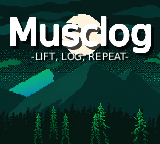
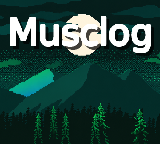
remove "lift log repeat" from the image

Changed region(s): [[0.1875, 0.3611, 0.8125, 0.4444]]

diff --git a/gameboy/src/start_screen.c b/gameboy/src/start_screen.c
@@ -46,6 +46,8 @@
 #define OPT_TEXT_X   7u
 #define OPT_VALUE_X  14u   /* ON/OFF column on the Options sub-screen */
 
+#define ROW_TAGLINE 7u
+
 /* Menu rows (CONTINUE / NEW GAME / OPTIONS — the first is shown only with a save). */
 #define ROW_OPT0    13u
 #define ROW_OPT1    14u
@@ -163,6 +165,7 @@ static void st_setup_graphics(void) {
     for (y = 0u; y != ST_ROWS; ++y) {
         st_paint_art_row(y);
     }
+    st_text(0u, ROW_TAGLINE, STR_APP_TAGLINE);
 
     SHOW_BKG;
     DISPLAY_ON;

diff --git a/gameboy/src/copies.h b/gameboy/src/copies.h
@@ -4,6 +4,7 @@
 /* ── App identity ──────────────────────────────────────────────────────── */
 #define STR_APP_NAME   "MUSCLOG"
 #define STR_APP_TITLE  "MUSCLOG GB"
+#define STR_APP_TAGLINE "-LIFT, LOG, REPEAT-"
 
 /* ── Common UI divider ─────────────────────────────────────────────────── */
 #define STR_DIVIDER    "--------------------"

diff --git a/gameboy/README.md b/gameboy/README.md
@@ -114,8 +114,9 @@ To publish a freshly built ROM into the web app's in-browser emulator asset:
 npm run gb:copy-rom
 ```
 
-That copies `gameboy/build/musclog.gbc` to `assets/musclog.gbc`, which is served
-by the website Game Boy page through WasmBoy.
+That copies `gameboy/build/musclog.gbc` to both `assets/musclog.gbc` and
+`public/images/musclog.gbc`. The website Game Boy page fetches the latter through
+WasmBoy.
 
 ## Tooling Commands
 
@@ -127,7 +128,7 @@ npm run gb:gen-foods     # Regenerate ROM food tables from data/*.json
 npm run gb:gen-exercises # Regenerate the ROM exercise table from data/exercisesData.json
 npm run gb:gen-music     # Reduce assets/*.mid to APU data (src/music_data.{c,h})
 npm run gb:build         # Build the .gbc ROM
-npm run gb:copy-rom      # Copy the ROM into assets/ for the website emulator
+npm run gb:copy-rom      # Copy the ROM into app + website emulator assets
 ```
 
 The generated food, exercise, and music C files are committed so normal ROM
@@ -248,6 +249,9 @@ pre-fill the hour and minute without touching the save format.
   `src/gb_background.c`/`src/gb_background.h`, which are gitignored. The title art
   is pinned to ROM bank 8 (`png2asset -b 8`), matching `start_screen.c`'s
   `#pragma bank 8` so the code reads the data co-located without `SWITCH_ROM()`.
+  The title art must fit within 256 addressable background tile indices after
+  png2asset dedupes duplicate and flipped tiles; `npm run gb:build` fails if a
+  new `gb_background.png` is too detailed.
 - After adding large tables or new screens, run `npm run gb:build` and inspect
   the bank layout output. The build fails if fixed or switchable banks overflow.
 - Prefer keeping ROM-bank-sensitive readers non-banked when they call